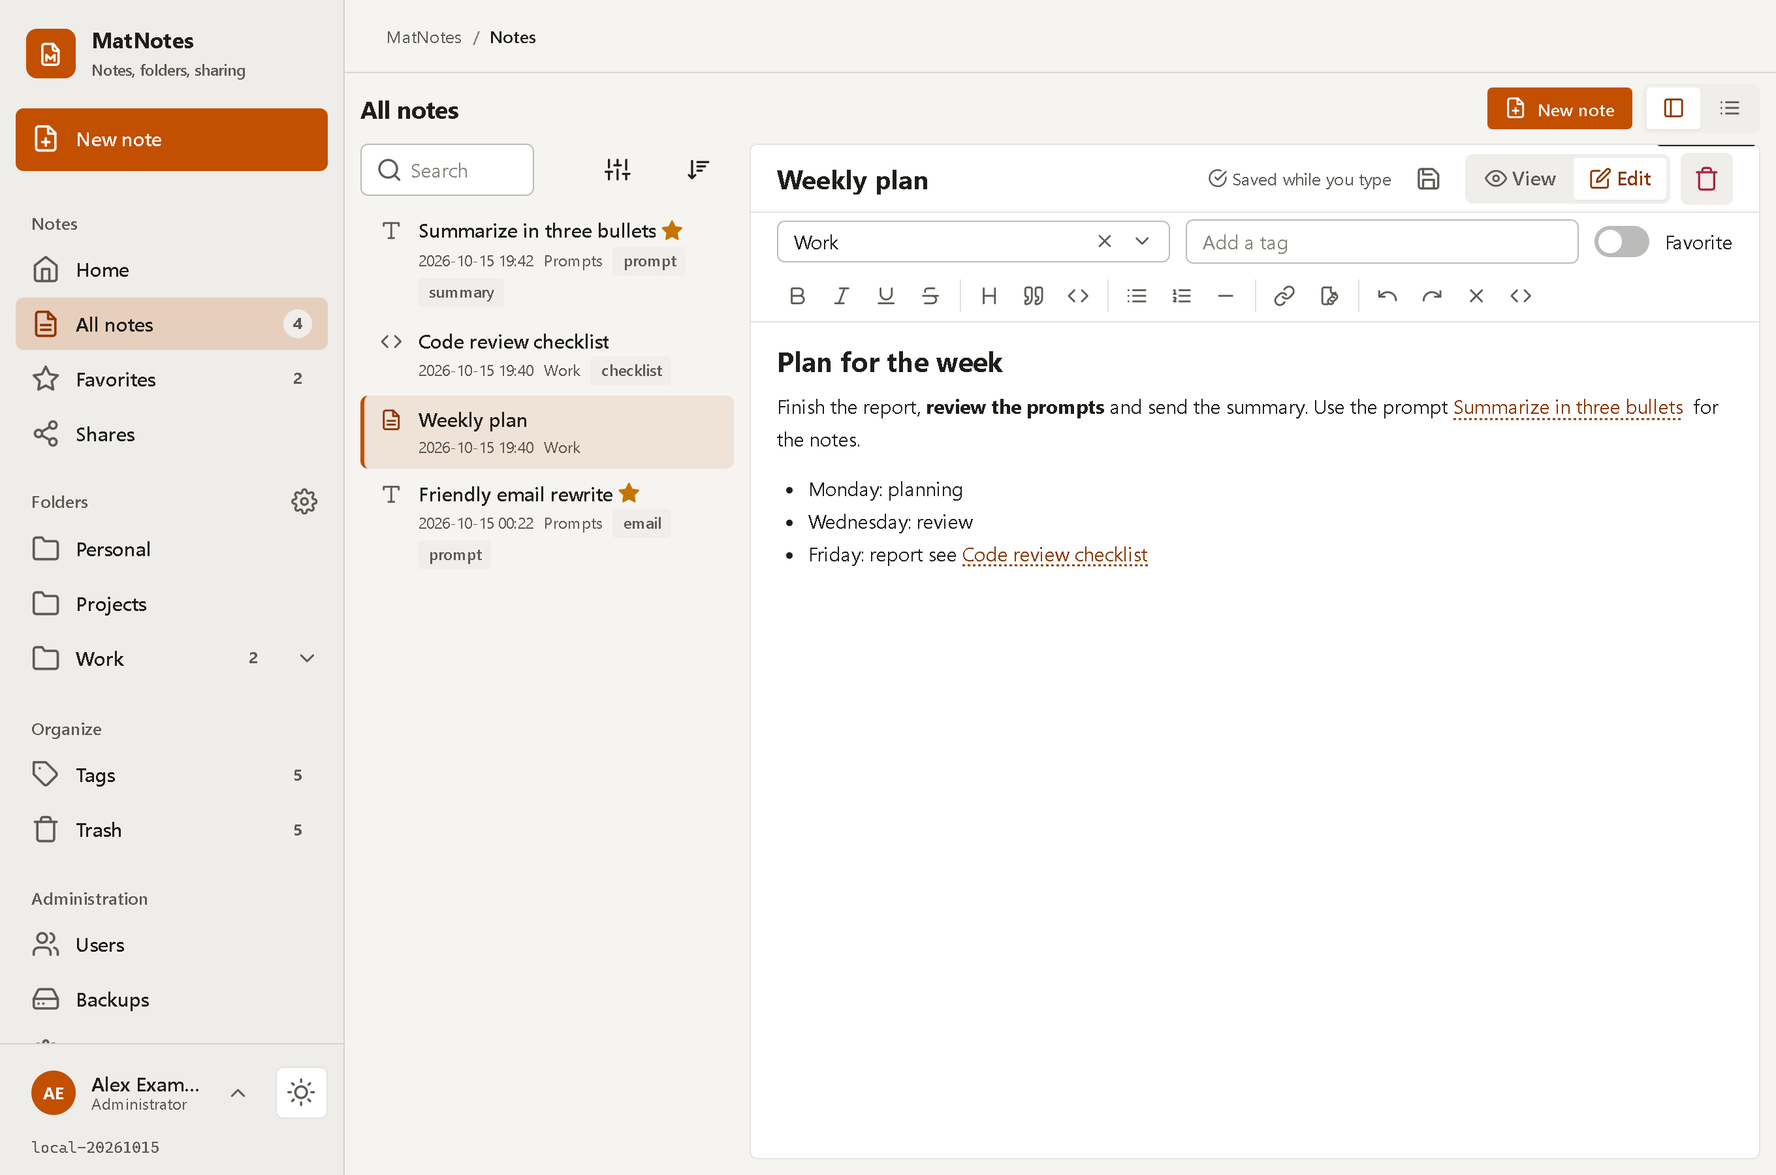
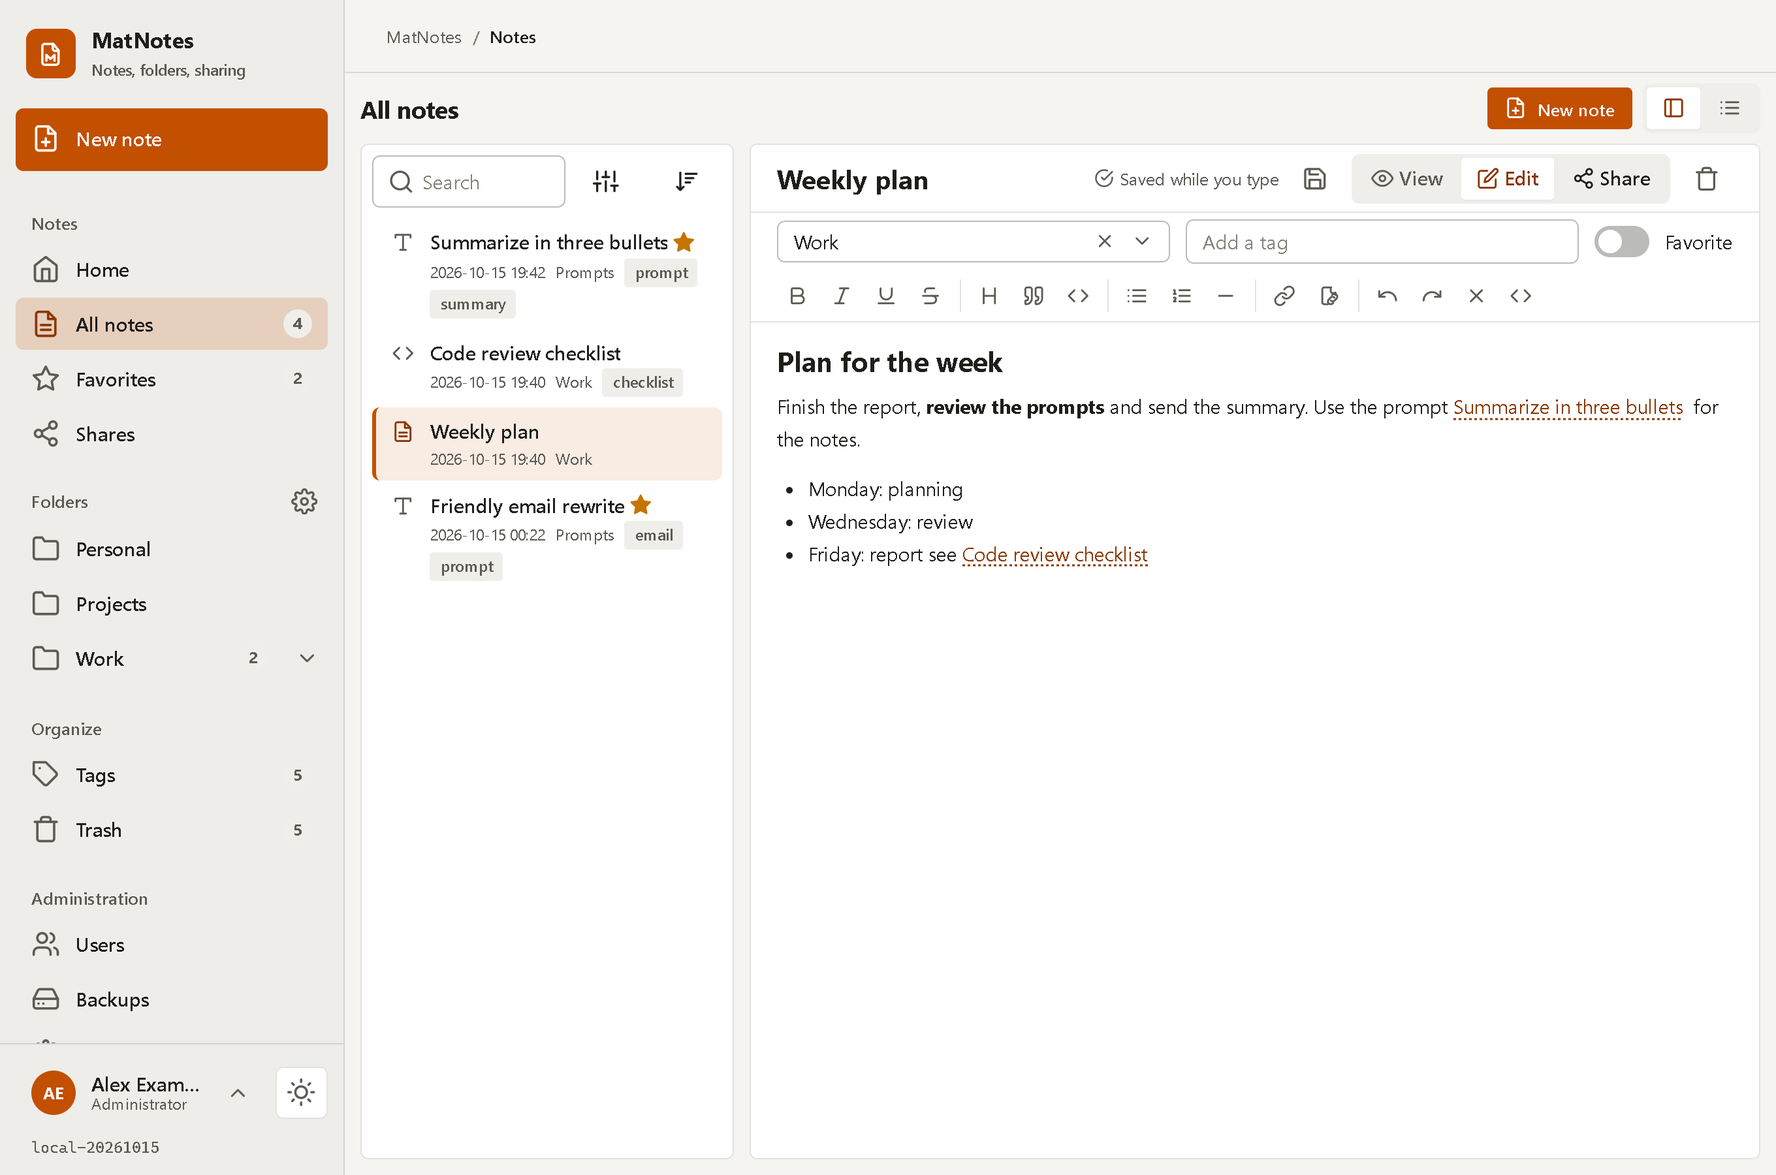
Notes: frame around the list, linked notes shown in the text where the export puts them, tabs (View/Edit/Sharing, Folder/Sharing) instead of buttons for parts of an item

diff --git a/src/MatNote/wwwroot/css/app.css b/src/MatNote/wwwroot/css/app.css
@@ -128,7 +128,7 @@ a.mn-stat:hover { border-color: var(--mat-border-strong); }
   .mn-split-page .mat-page__sub { display: none; }
   .mn-split-page .mn-listhead h1 { font-size: 1.15rem; margin: 0; }
   .mn-split { flex: 1 1 0; min-height: 0; display: grid; grid-template-columns: minmax(17rem, 21vw) minmax(0, 1fr); gap: var(--mat-space-3); }
-  .mn-split__list { min-height: 0; overflow-y: auto; overscroll-behavior: contain; }
+  .mn-split__list { min-height: 0; overflow-y: auto; overscroll-behavior: contain; padding: var(--mat-space-2); border: 1px solid var(--mat-border); border-radius: var(--mat-radius); background: var(--mat-surface); }
   .mn-split .mat-list { gap: var(--mat-space-2); }
   .mn-split .mat-toolbar { padding: 0; background: transparent; border: 0; box-shadow: none; }
   .mn-split .mat-toolbar__search { flex: 1 1 8rem; min-width: 0; }
@@ -195,7 +195,7 @@ a.mn-stat:hover { border-color: var(--mat-border-strong); }
 .mn-links[hidden] { display: none; }
 .mn-chip-link { display: inline-flex; align-items: center; gap: 4px; text-decoration: none; }
 
-/* links to notes: the list after [[, the bar over a link, and a note shown inside another one */
+/* links to notes: the list after [[, the bar over a link; and the notes copied into the text where the export puts them (Notes/View, "Linked notes in the text") */
 .mn-linkpop { position: fixed; z-index: 50; min-width: 16rem; max-width: min(26rem, 90vw); max-height: 16rem; overflow: auto; padding: var(--mat-space-1); background: var(--mat-surface); border: 1px solid var(--mat-border-strong); border-radius: var(--mat-radius); box-shadow: var(--mat-shadow-3); }
 .mn-linkpop[hidden] { display: none; }
 .mn-linkpop .mat-menu__item { width: 100%; }
@@ -203,18 +203,16 @@ a.mn-stat:hover { border-color: var(--mat-border-strong); }
 .mn-linkpop--tip { display: flex; min-width: 0; padding: 2px; gap: 2px; }
 .mn-linkpop__none { margin: 0; padding: var(--mat-space-2) var(--mat-space-3); }
 .mn-doc a.mn-note-link, .mn-editor__area a.mn-note-link { text-decoration: underline; text-decoration-style: dotted; text-underline-offset: 3px; }
-.mn-inject { display: inline-grid; place-items: center; width: 1.5em; height: 1.5em; margin-left: .2em; padding: 0; vertical-align: -.3em; border: 0; border-radius: var(--mat-radius-sm); background: transparent; color: var(--mat-text-muted); cursor: pointer; }
-.mn-inject:hover, .mn-inject.is-open { background: var(--mat-accent-soft); color: var(--mat-accent-text); }
-.mn-inject .mat-icon { width: .95em; height: .95em; }
-.mn-injected { margin: 0 0 .9em; padding: var(--mat-space-2) var(--mat-space-4) var(--mat-space-1); background: var(--mat-surface-2); border-left: 3px solid var(--mat-accent); border-radius: 0 var(--mat-radius) var(--mat-radius) 0; }
-.mn-injected .mn-injected { background: var(--mat-surface); }
-.mn-injected__head { display: flex; align-items: center; gap: var(--mat-space-2); margin-bottom: var(--mat-space-1); font-weight: 600; }
-.mn-injected__head > a { flex: 1 1 auto; min-width: 0; }
-.mn-injected__body.mn-doc { max-width: none; }
-.mn-injected__wait { margin: 0; }
 .mn-embed .mn-edit-content > .mat-field, .mn-embed .mn-edit-meta > .mat-field { gap: 0; }
 .mn-embed .mn-edit-meta .mat-error { min-height: 0; }
 .mn-embed .mn-edit-meta .mat-tagfield { min-height: var(--mat-control-h-sm); padding-block: 0; }
 .mn-embed .mn-editor__area:focus, .mn-embed .mn-editor__area:focus-visible { outline: none; box-shadow: none; }
 @media (min-width: 1100px) { .mn-split .mat-toolbar__info { display: none; } }
 .mn-embed .mn-linked ul { padding-left: 0; list-style: none; }
+.mn-doc section.mn-linked-note { margin: 1.2em 0; padding: .2em 0 .2em var(--mat-space-4); border-left: 4px solid var(--mat-accent); border-radius: 0 var(--mat-radius) var(--mat-radius) 0; background: var(--mat-surface-2); }
+.mn-doc section.mn-linked-note section.mn-linked-note { background: var(--mat-surface); }
+.mn-doc section.mn-linked-note > :is(h2, h3, h4) { margin: .4em 0 .5em; font-size: 1.15rem; }
+.mn-doc section.mn-linked-note > :is(h2, h3, h4) > a { color: inherit; text-decoration: none; }
+.mn-doc section.mn-linked-note > :is(h2, h3, h4) > a:hover { text-decoration: underline; }
+@media (min-width: 1100px) { .mn-split .mat-toolbar { flex-wrap: nowrap; gap: var(--mat-space-1); } .mn-split .mat-toolbar__spacer { display: none; } .mn-split .mat-toolbar__end { margin-left: 0; flex: none; } }
+.mn-embed .mn-item-head { display: none; }

diff --git a/src/MatNote/wwwroot/js/embed.js b/src/MatNote/wwwroot/js/embed.js
@@ -7,8 +7,8 @@
 (function () {
   'use strict';
 
-  var STAY = /^\/Notes\/(View|Edit|Pane|File|Export)$/;
-  var WITH_EMBED = /^\/Notes\/(View|Edit|Pane)$/;
+  var STAY = /^\/(Notes\/(View|Edit|Pane|File|Export)|Shares\/Edit)$/;
+  var WITH_EMBED = /^\/(Notes\/(View|Edit|Pane)|Shares\/Edit)$/;
 
   function links(root) {
     Array.prototype.forEach.call(root.querySelectorAll('a[href]'), function (a) {

diff --git a/src/MatNote/Services/Export/DocHtml.cs b/src/MatNote/Services/Export/DocHtml.cs
@@ -33,7 +33,7 @@ internal static class DocHtml
             sb.Append("<h1>").Append(Enc(doc.Title.Trim())).Append("</h1>\n");
         }
 
-        Blocks(doc.Blocks, sb);
+        Blocks(doc.Blocks, sb, null);
         sb.Append("</body>\n</html>\n");
         return sb.ToString();
     }
@@ -41,22 +41,30 @@ internal static class DocHtml
     public static string Fragment(List<Block> blocks)
     {
         var sb = new StringBuilder();
-        Blocks(blocks, sb);
+        Blocks(blocks, sb, null);
+        return sb.ToString();
+    }
+
+    /// <summary>The fragment for a page of the app: the title of a copied-in note is a link to that note (<paramref name="noteUrl"/> gives its address).</summary>
+    public static string Fragment(List<Block> blocks, Func<long, string> noteUrl)
+    {
+        var sb = new StringBuilder();
+        Blocks(blocks, sb, noteUrl);
         return sb.ToString();
     }
 
     /// <summary>Encodes the five characters that matter in HTML text and attributes; everything else stays as it is (the page is UTF-8).</summary>
     internal static string Enc(string text) => text.Replace("&", "&amp;").Replace("<", "&lt;").Replace(">", "&gt;").Replace("\"", "&quot;").Replace("'", "&#39;");
 
-    private static void Blocks(List<Block> blocks, StringBuilder sb)
+    private static void Blocks(List<Block> blocks, StringBuilder sb, Func<long, string>? noteUrl)
     {
         foreach (var b in blocks)
         {
-            One(b, sb);
+            One(b, sb, noteUrl);
         }
     }
 
-    private static void One(Block block, StringBuilder sb)
+    private static void One(Block block, StringBuilder sb, Func<long, string>? noteUrl)
     {
         switch (block)
         {
@@ -79,7 +87,7 @@ internal static class DocHtml
                 break;
             case Quote q:
                 sb.Append("<blockquote>\n");
-                Blocks(q.Blocks, sb);
+                Blocks(q.Blocks, sb, noteUrl);
                 sb.Append("</blockquote>\n");
                 break;
             case ListBlock l:
@@ -101,7 +109,7 @@ internal static class DocHtml
                     else
                     {
                         sb.Append('\n');
-                        Blocks(item, sb);
+                        Blocks(item, sb, noteUrl);
                     }
 
                     sb.Append("</li>\n");
@@ -129,8 +137,18 @@ internal static class DocHtml
                 break;
             case Section s:
                 var level = s.Level;
-                sb.Append("<section class=\"mn-linked-note\">\n<h").Append(level).Append('>').Append(Enc(s.Title.Trim())).Append("</h").Append(level).Append(">\n");
-                Blocks(s.Blocks, sb);
+                sb.Append("<section class=\"mn-linked-note\">\n<h").Append(level).Append('>');
+                if (noteUrl is not null && s.NoteId > 0 && noteUrl(s.NoteId) is { } url && url.StartsWith('/') && !url.StartsWith("//", StringComparison.Ordinal))
+                {
+                    sb.Append("<a class=\"mn-note-link\" data-note-id=\"").Append(s.NoteId).Append("\" href=\"").Append(Enc(url)).Append("\">").Append(Enc(s.Title.Trim())).Append("</a>");
+                }
+                else
+                {
+                    sb.Append(Enc(s.Title.Trim()));
+                }
+
+                sb.Append("</h").Append(level).Append(">\n");
+                Blocks(s.Blocks, sb, noteUrl);
                 sb.Append("</section>\n");
                 break;
             case MdSource m:

diff --git a/src/MatNote/Pages/Notes/View.cshtml.cs b/src/MatNote/Pages/Notes/View.cshtml.cs
@@ -35,6 +35,14 @@ public sealed class ViewModel(AppDbContext db, CurrentUser me, AccessService acc
 
     public IReadOnlyList<ExportFormat> Formats { get; private set; } = [];
 
+    public const string InlineCookie = "mn.inline";
+
+    /// <summary>The note links to other notes (a text note).</summary>
+    public bool HasLinks { get; private set; }
+
+    /// <summary>The linked notes are shown inside the text, where the export would put them (the button of the ribbon; remembered in the cookie <c>mn.inline</c>).</summary>
+    public bool Inline { get; private set; }
+
     public bool IsOwner => Access == Access.Owner;
 
     public async Task<IActionResult> OnGetAsync()
@@ -45,23 +53,18 @@ public sealed class ViewModel(AppDbContext db, CurrentUser me, AccessService acc
             return NotFound();
         }
 
-        await FillAsync(note, level);
-        return Page();
-    }
-
-    /// <summary>
-    /// The text of a note as JSON, for the button of a link that shows the linked note inside this one (notelinks.js). Only what the person may read; a file has no text to show.
-    /// </summary>
-    public async Task<IActionResult> OnGetBodyAsync()
-    {
-        var (note, _) = await access.FindNoteAsync(Id);
-        if (note is null)
+        var want = Request.Query["inline"].ToString();
+        if (want is "1" or "0")
         {
-            return NotFound();
+            Response.Cookies.Append(InlineCookie, want, new CookieOptions { MaxAge = TimeSpan.FromDays(365), SameSite = SameSiteMode.Lax, Secure = Request.IsHttps, HttpOnly = true, IsEssential = true });
+        }
+        else
+        {
+            want = Request.Cookies[InlineCookie] ?? "0";
         }
 
-        var html = Ui.IsText(note.Type) ? preview.RenderText(note, id => $"/Notes/View?id={id}") : null;
-        return new JsonResult(new { id = note.Id, title = note.Title, icon = Ui.TypeIcon(note.Type), html });
+        await FillAsync(note, level, want == "1");
+        return Page();
     }
 
     public async Task<IActionResult> OnPostFavoriteAsync()
@@ -78,7 +81,7 @@ public sealed class ViewModel(AppDbContext db, CurrentUser me, AccessService acc
         return RedirectToPage(new { id = Id, embed = EmbedValue });
     }
 
-    private async Task FillAsync(Note note, Access level)
+    private async Task FillAsync(Note note, Access level, bool inline = false)
     {
         Note = note;
         ViewData["NoteId"] = note.Id;
@@ -87,7 +90,11 @@ public sealed class ViewModel(AppDbContext db, CurrentUser me, AccessService acc
 
         if (Ui.IsText(note.Type))
         {
-            BodyHtml = preview.RenderText(note, id => $"/Notes/View?id={id}");
+            HasLinks = preview.ExtractLinks(note).Count > 0;
+            Inline = inline && HasLinks;
+            BodyHtml = Inline
+                ? await preview.RenderWithLinkedAsync(note, async linked => (await access.FindNoteAsync(linked)).Note, id => $"/Notes/View?id={id}{EmbedQuery}", HttpContext.RequestAborted)
+                : preview.RenderText(note, id => $"/Notes/View?id={id}");
         }
         else if (note.Type is NoteType.Docx or NoteType.Xlsx)
         {

diff --git a/src/MatNote/Pages/Shares/Edit.cshtml.cs b/src/MatNote/Pages/Shares/Edit.cshtml.cs
@@ -193,11 +193,11 @@ public sealed class EditModel(AppDbContext db, CurrentUser me, AccessService acc
         if (kind == ShareKind.Link)
         {
             Flash(IsNew ? "The link is ready. Copy it and send it." : "The share is saved.");
-            return RedirectToPage(new { id = share.Id });
+            return RedirectToPage(new { id = share.Id, embed = EmbedValue });
         }
 
         Flash(IsNew ? $"Shared with {target!.DisplayName}." : "The share is saved.");
-        return RedirectToPage("Mine");
+        return AfterChange(share);
     }
 
     public async Task<IActionResult> OnPostDeleteAsync()
@@ -211,8 +211,11 @@ public sealed class EditModel(AppDbContext db, CurrentUser me, AccessService acc
         db.Shares.Remove(share);
         await db.SaveChangesAsync();
         Flash("Sharing stopped. The link or the access no longer works.");
-        return RedirectToPage("Mine");
+        return AfterChange(share);
     }
+
+    /// <summary>After a user share or a stop: in the note pane back to the sharing tab of the note, otherwise the list of the shares.</summary>
+    private IActionResult AfterChange(Share share) => Embed && share.NoteId is { } note ? RedirectToPage("Edit", new { noteId = note, embed = 1 }) : RedirectToPage("Mine");
 
     /// <summary>Finds what is shared (a new share: the note or folder from the address; an existing one: from the share). Only the owner may share.</summary>
     private async Task<(bool Found, Share? Share)> LoadTargetAsync(bool track)
@@ -241,7 +244,8 @@ public sealed class EditModel(AppDbContext db, CurrentUser me, AccessService acc
             ItemName = note.Title;
             ItemKind = Ui.TypeName(note.Type);
             ItemIcon = Ui.TypeIcon(note.Type);
-            BackUrl = $"/Notes/View?id={note.Id}";
+            BackUrl = Embed ? (IsNew ? $"/Notes/View?id={note.Id}&embed=1" : $"/Shares/Edit?noteId={note.Id}&embed=1") : $"/Notes/View?id={note.Id}";
+            ViewData["NoteId"] = note.Id;
             FolderId = null;
             return (true, share);
         }

diff --git a/src/MatNote/Services/Export/Contracts.cs b/src/MatNote/Services/Export/Contracts.cs
@@ -64,6 +64,13 @@ public interface INotePreview
     /// </summary>
     string RenderText(Note note, Func<long, string> noteUrl);
 
+    /// <summary>
+    /// The text of a note for the page with the linked notes in it, exactly as the export puts them: the note stays, and each linked note follows as a titled section right after
+    /// the paragraph (the list item, the table, the line of a plain text) that links it. Only notes the <paramref name="resolver"/> gives, once each, three levels deep.
+    /// The title of a section is a link to its note.
+    /// </summary>
+    Task<string> RenderWithLinkedAsync(Note note, NoteResolver resolver, Func<long, string> noteUrl, CancellationToken ct = default);
+
     /// <summary>A preview of a Word or Excel file as safe HTML (a limited number of rows and columns), or <c>null</c> for any other type.</summary>
     Task<string?> RenderFileAsync(Note note, CancellationToken ct = default);
 

diff --git a/src/MatNote/Services/Export/NotePreview.cs b/src/MatNote/Services/Export/NotePreview.cs
@@ -40,6 +40,16 @@ public sealed partial class NotePreview(INoteFileStore store) : INotePreview
         };
     }
 
+    public async Task<string> RenderWithLinkedAsync(Note note, NoteResolver resolver, Func<long, string> noteUrl, CancellationToken ct = default)
+    {
+        ArgumentNullException.ThrowIfNull(note);
+        ArgumentNullException.ThrowIfNull(resolver);
+        ArgumentNullException.ThrowIfNull(noteUrl);
+        var inliner = new LinkInliner(resolver, new ExportOptions(IncludeLinkedNotes: true), markdownSource: false, note.Id);
+        var blocks = await inliner.ProcessAsync(NoteDocs.Blocks(note), ct);
+        return DocHtml.Fragment(blocks, noteUrl);
+    }
+
     /// <summary>The address of a note for the page; anything that is not an address of this site or a web address is refused (no script URLs).</summary>
     private static string? SafeUrl(Func<long, string> noteUrl, long id)
     {

diff --git a/src/MatNote/Pages/Shared/PaneBarModel.cs b/src/MatNote/Pages/Shared/PaneBarModel.cs
@@ -4,4 +4,4 @@ namespace MatNote.Pages.Shared;
 /// For <c>_PaneBar</c>: the note, whether the person may edit it, which of the two modes is shown, and whether the title is a field of the edit form (it is in the edit mode:
 /// the title stays where it was). In the edit mode the bar also holds what the buttons under a form hold elsewhere: the state of the autosave, Save and Delete.
 /// </summary>
-public sealed record PaneBarModel(long Id, string Title, bool CanEdit, bool Editing, bool TitleField = false, bool Autosave = false, bool CanDelete = false);
+public sealed record PaneBarModel(long Id, string Title, bool CanEdit, bool Editing, bool TitleField = false, bool Autosave = false, bool CanDelete = false, bool CanShare = false, bool Sharing = false);

diff --git a/src/MatNote/Services/Export/DocModel.cs b/src/MatNote/Services/Export/DocModel.cs
@@ -26,7 +26,7 @@ internal sealed record Cell(bool Header, List<Inline> Inlines);
 internal sealed record TableBlock(List<List<Cell>> Rows) : Block;
 
 /// <summary>A linked note that is copied into the document: a titled section.</summary>
-internal sealed record Section(string Title, List<Block> Blocks, int Depth) : Block
+internal sealed record Section(string Title, List<Block> Blocks, int Depth, long NoteId = 0) : Block
 {
     /// <summary>The heading level the title gets (2 for the first level of links, at most 4).</summary>
     public int Level => Math.Clamp(Depth + 1, 2, 4);

diff --git a/src/MatNote/Pages/Shared/ItemTabsModel.cs b/src/MatNote/Pages/Shared/ItemTabsModel.cs
@@ -1,0 +1,7 @@
+namespace MatNote.Pages.Shared;
+
+/// <summary>
+/// For <c>_ItemTabs</c>: the parts of one note or folder that have a page of their own are tabs (a note: <c>view</c>, <c>edit</c>, <c>share</c>; a folder: <c>folder</c>, <c>share</c>),
+/// never buttons. <paramref name="Active"/> names the tab of the page. A tab the person may not use (edit, share) is left out.
+/// </summary>
+public sealed record ItemTabsModel(bool IsFolder, long Id, string Active, bool CanEdit = true, bool CanShare = true);

diff --git a/src/MatNote/Services/Export/LinkInliner.cs b/src/MatNote/Services/Export/LinkInliner.cs
@@ -197,7 +197,7 @@ internal sealed class LinkInliner(NoteResolver resolver, ExportOptions options, 
             }
 
             var content = await Process(NoteDocs.Blocks(note, markdownSource), depth + 1, ct);
-            into.Add(new Section(string.IsNullOrWhiteSpace(note.Title) ? $"Note {note.Id}" : note.Title.Trim(), content, depth + 1));
+            into.Add(new Section(string.IsNullOrWhiteSpace(note.Title) ? $"Note {note.Id}" : note.Title.Trim(), content, depth + 1, note.Id));
         }
     }
 }

diff --git a/README.md b/README.md
@@ -28,8 +28,8 @@ ever showing anyone a list of the other people who use the app.
 - Every note has a **type**: *rich text* (a small built-in editor), *plain text* (exactly what you typed – ideal for
   prompts), *Markdown*, *Word (.docx)*, *Excel (.xlsx)*, *PDF* or any other file
 - Upload a `.txt`, `.md` or `.html` file and it becomes a text note; Word and Excel files get a preview, PDFs are shown in the page
-- **Links between notes**: type `[[` and a few letters to link a note, Ctrl + click (or the little bar over the link) opens it, and when you read a note a button
-  after each link **shows the linked note right there**. When you export a note, the linked notes are **copied into the export** at the place of the link –
+- **Links between notes**: type `[[` and a few letters to link a note, Ctrl + click (or the little bar over the link) opens it, and when you read a note, the button *Linked notes in the text*
+  **shows them right where the export would put them**. When you export a note, the linked notes are **copied into the export** at the place of the link –
   but only notes the reader may see
 - **List and note side by side, like OneNote**: on a wide window the note opens right next to the list, switchable between *view* and *edit*, and text notes are **saved while you type**. One click switches to the plain list, a phone always gets the list with a page per note
 - **Favorites**, search, filters and sorting on every list, a **trash** with 30 days of grace
@@ -61,7 +61,7 @@ ever showing anyone a list of the other people who use the app.
 | ![A note beside the list](docs/images/split.png) | ![The editor beside the list](docs/images/split-edit.png) |
 
 Pick a note and it opens at the right, in the mode you worked in last; *View* and *Edit* switch the mode in place and nothing moves. Type `[[` to link another note; while
-reading, the arrow after a link shows that note inside this one (shown in the left picture). The editor saves after a short pause and says so; if somebody else changed the same
+reading, *Linked notes in the text* puts each linked note under the paragraph that links it (left picture). A note has the tabs *View*, *Edit* and *Sharing*; a folder *Folder* and *Sharing*. The editor saves after a short pause and says so; if somebody else changed the same
 note in the meantime, it stops instead of overwriting their text. The two buttons at the top right choose between this layout and the plain list (remembered per browser).
 
 ### Notes and the folder tree
